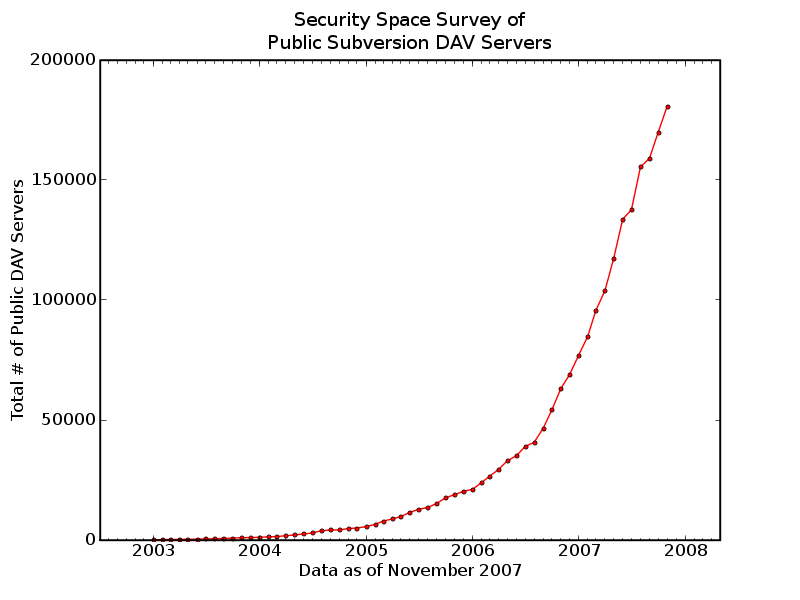
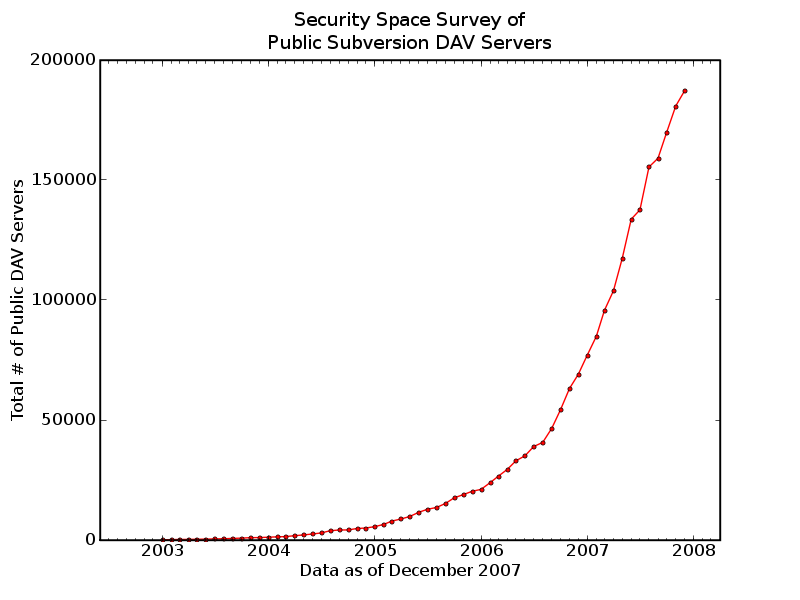
Update the Security Space survey for December 2007.
* www/svn-dav-securityspace-survey.html,
  www/images/svn-dav-securityspace-survey.png,
  tools/dev/graph-dav-servers.py:
  Update image and table.

git-svn-id: https://svn.apache.org/repos/asf/subversion/trunk@868258 13f79535-47bb-0310-9956-ffa450edef68

diff --git a/www/svn-dav-securityspace-survey.html b/www/svn-dav-securityspace-survey.html
@@ -36,12 +36,13 @@ script. -->
 <img src="images/svn-dav-securityspace-survey.png" alt="" />
 
 <p>This information is taken from the <a
-href="http://www.securityspace.com/s_survey/data/man.200710/apachemods.html?mod=U1ZO"
+href="http://www.securityspace.com/s_survey/data/man.200711/apachemods.html?mod=U1ZO"
 >Security Space Apache Modules Survey</a>.  Thanks Security Space!</p>
 
 <table style="margin-left: auto; margin-right: auto;" border="0"
   cellpadding="5" cellspacing="0">
   <tr><th>Date</th><th># Servers</th></tr>
+  <tr><td>December 2007</td><td style="text-align: right">187,093</td></tr>
   <tr><td>November 2007</td><td style="text-align: right">180,831</td></tr>
   <tr><td>October 2007</td><td style="text-align: right">169,939</td></tr>
   <tr><td>September 2007</td><td style="text-align: right">159,055</td></tr>

diff --git a/tools/dev/graph-dav-servers.py b/tools/dev/graph-dav-servers.py
@@ -81,7 +81,8 @@ STATS = """1/1/2003       70
 8/1/2007              155426
 9/1/2007              159055
 10/1/2007             169939
-11/1/2007             180831"""
+11/1/2007             180831
+12/1/2007             187093"""
 
 
 def get_date(raw_date):
